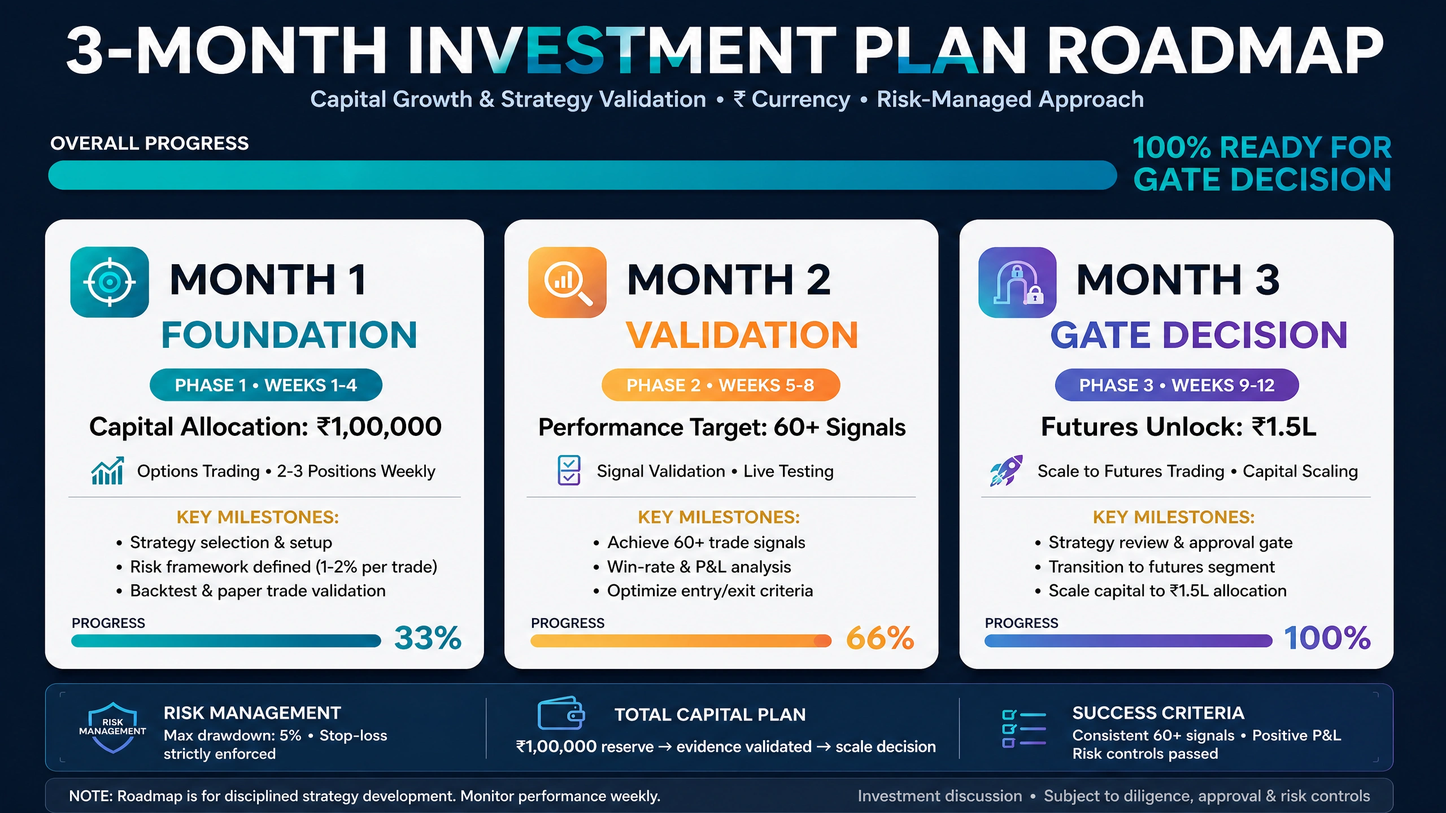
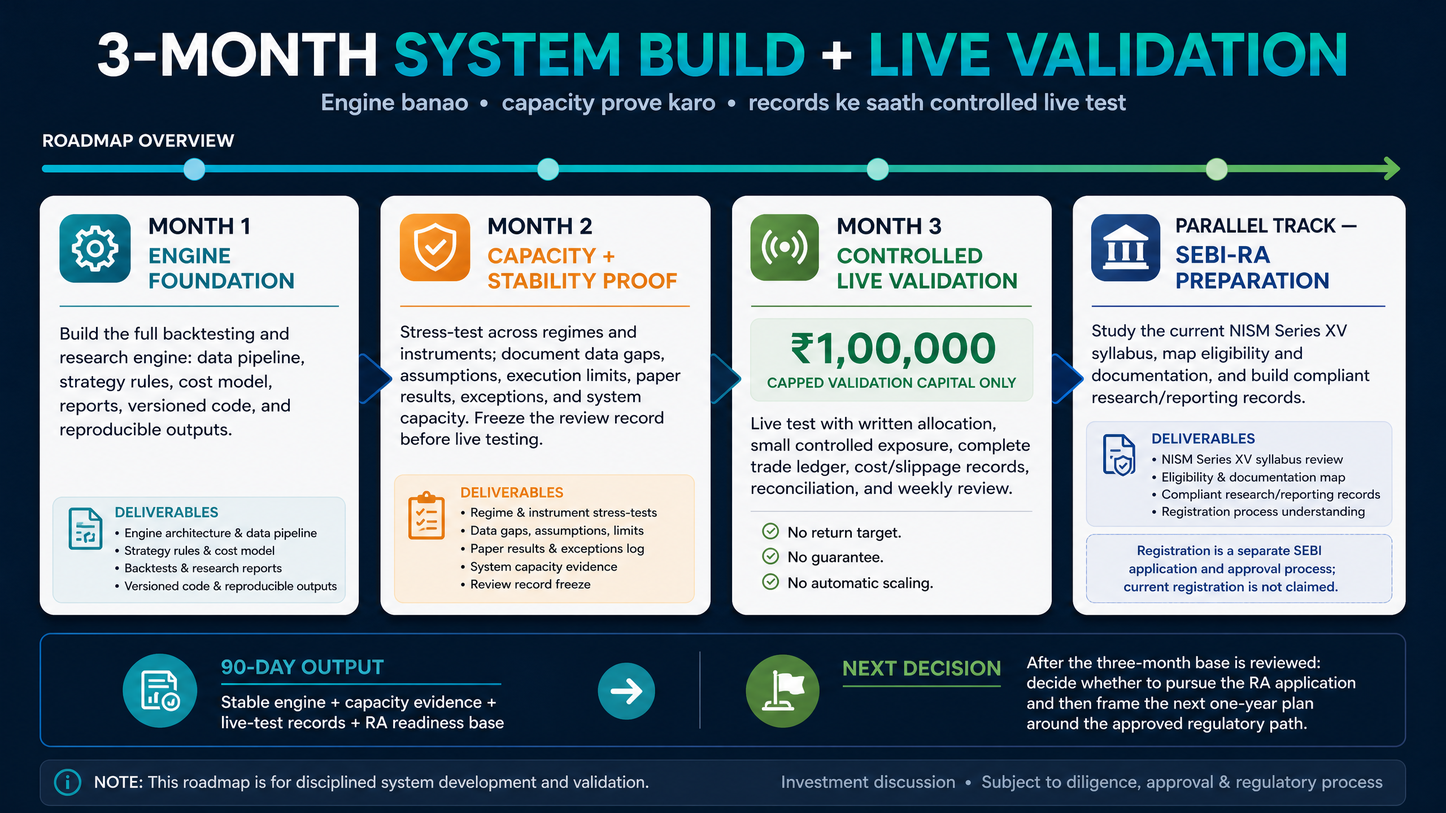
Update investment roadmap visual and reserve to one lakh

diff --git a/investor_complete.html b/investor_complete.html
@@ -348,15 +348,15 @@
         <p class="text-sm text-slate-600">Personal expenses ke liye separate buffer. Yeh trading, recovery ya escalation money nahi hai.</p>
       </div>
       <div class="bg-emerald-50 border border-emerald-200 rounded-2xl p-6 section-card">
-        <p class="text-xs text-emerald-700 font-semibold uppercase tracking-widest mb-2">Phase 3 · Conditional ring</p>
+        <p class="text-xs text-emerald-700 font-semibold uppercase tracking-widest mb-2">Phase 3 · Controlled live validation</p>
         <h3 class="text-xl font-bold text-slate-900 mb-2">₹1,00,000</h3>
-        <p class="text-sm text-slate-600">Only after evidence gates. Controlled validation space—not a return target and not a scale-up commitment.</p>
+        <p class="text-sm text-slate-600">Only after the engine and evidence base are reviewed. Capped live-test capital—not a return target or scale-up commitment.</p>
       </div>
     </div>
 
     <!-- Month-by-Month Plan -->
     <div class="bg-white border border-slate-200 rounded-2xl p-6 mb-10 overflow-x-auto section-card">
-      <h3 class="text-lg font-bold text-slate-900 mb-4">🗓 Month-by-Month Plan</h3>
+      <h3 class="text-lg font-bold text-slate-900 mb-4">🗓 Three-Month System Build + Live Validation</h3>
       <table class="w-full text-sm">
         <thead>
           <tr class="border-b-2 border-slate-200">
@@ -370,23 +370,23 @@
         <tbody>
           <tr class="border-b border-slate-100">
             <td class="font-bold text-slate-900">1 · Setup</td>
-            <td class="text-blue-600 font-semibold">Tools + runway</td>
-            <td>Laptop, phone, daily evidence ledger aur ₹20k personal buffer separately set.</td>
-            <td>No validation capital deployed.</td>
+            <td class="text-blue-600 font-semibold">Engine foundation</td>
+            <td>Full backtesting/research engine: data pipeline, strategy rules, cost model, reports, versioned code aur reproducible outputs.</td>
+            <td>No live-test capital deployed.</td>
             <td><span class="px-2 py-0.5 bg-blue-100 text-blue-700 rounded text-xs font-bold">Ready / Not ready</span></td>
           </tr>
           <tr class="border-b border-slate-100">
             <td class="font-bold text-slate-900">2 · Paper evidence</td>
-            <td class="text-amber-600 font-semibold">System discipline</td>
-            <td>60 paper signals, journal, fees/cost review, rule-break log aur 29/30 Aug gates where applicable.</td>
-            <td>No automatic escalation.</td>
+            <td class="text-amber-600 font-semibold">Capacity + stability proof</td>
+            <td>Regime/instrument stress-tests, data-gap and assumption log, paper results, exceptions aur capacity evidence.</td>
+            <td>Review record freeze before live testing.</td>
             <td><span class="px-2 py-0.5 bg-amber-100 text-amber-700 rounded text-xs font-bold">Continue / Pause / Reject</span></td>
           </tr>
           <tr>
             <td class="font-bold text-slate-900">3 · Controlled validation</td>
-            <td class="text-emerald-600 font-semibold">Evidence gate</td>
-            <td>Full review: paper record, costs, discipline, drawdown and unresolved assumptions.</td>
-            <td>Only then ₹1 lakh ring; ₹500 daily brake and ₹2,500 rolling-month brake.</td>
+            <td class="text-emerald-600 font-semibold">Controlled live validation</td>
+            <td>Written allocation, small controlled exposure, complete trade ledger, cost/slippage records, reconciliation aur weekly review.</td>
+            <td>Only then ₹1,00,000 capped validation capital; no return target, guarantee ya automatic scaling.</td>
             <td><span class="px-2 py-0.5 bg-emerald-100 text-emerald-700 rounded text-xs font-bold">Validate / Pause / Reject</span></td>
           </tr>
         </tbody>
@@ -395,7 +395,7 @@
 
     <!-- Evidence gates -->
     <div class="bg-white border border-slate-200 rounded-2xl p-6 mb-10 overflow-x-auto section-card">
-      <h3 class="text-lg font-bold text-slate-900 mb-4">🎯 Evidence Gates — Return Targets Nahi</h3>
+      <h3 class="text-lg font-bold text-slate-900 mb-4">🎯 90-Day Output — Engine, Records, RA Readiness</h3>
       <table class="w-full text-sm">
         <thead>
           <tr class="border-b-2 border-slate-200">
@@ -405,12 +405,12 @@
           </tr>
         </thead>
         <tbody>
-          <tr class="border-b border-slate-100"><td>Paper sample</td><td class="text-emerald-600 font-bold">60 paper signals logged</td><td class="text-slate-500">Signal count alone proof nahi; it makes review auditable.</td></tr>
-          <tr class="border-b border-slate-100"><td>Rule compliance</td><td class="text-emerald-600 font-bold">Every exception journaled</td><td class="text-slate-500">Execution aur system result ko alag dekhna zaroori hai.</td></tr>
-          <tr class="border-b border-slate-100"><td>Costs + drawdown</td><td class="text-emerald-600 font-bold">Recorded, within written brakes</td><td class="text-slate-500">Gross signal edge, costs ke baad bhi meaningful hona chahiye.</td></tr>
-          <tr class="border-b border-slate-100"><td>Open hypotheses</td><td class="text-emerald-600 font-bold">No unresolved assumption ignored</td><td class="text-slate-500">Max-hold, sizing aur data-quality questions ko hide nahi karna.</td></tr>
-          <tr class="border-b border-slate-100"><td>Daily brake</td><td class="text-emerald-600 font-bold">₹500</td><td class="text-slate-500">If Phase 3 opens, stop rule comes before any new trade.</td></tr>
-          <tr><td>Rolling-month brake</td><td class="text-emerald-600 font-bold">₹2,500</td><td class="text-slate-500">Loss recovery ya automatic scale-up allowed nahi.</td></tr>
+          <tr class="border-b border-slate-100"><td>Engine</td><td class="text-emerald-600 font-bold">Reproducible backtest + research reports</td><td class="text-slate-500">Code, data, assumptions aur output ko repeatably review karna.</td></tr>
+          <tr class="border-b border-slate-100"><td>Capacity + stability</td><td class="text-emerald-600 font-bold">Stress-tests and exception log complete</td><td class="text-slate-500">Data gaps, instrument limits aur failure conditions visible hon.</td></tr>
+          <tr class="border-b border-slate-100"><td>Live records</td><td class="text-emerald-600 font-bold">Allocation, ledger, costs, reconciliation</td><td class="text-slate-500">Live test ko auditable banana; return promise nahi.</td></tr>
+          <tr class="border-b border-slate-100"><td>RA readiness</td><td class="text-emerald-600 font-bold">NISM Series XV study + eligibility/document map</td><td class="text-slate-500">Preparation parallel hai; current SEBI registration claim nahi.</td></tr>
+          
+          <tr><td>Next decision</td><td class="text-emerald-600 font-bold">Review base, then decide RA application + one-year plan</td><td class="text-slate-500">Application separate SEBI process hai; approval assumed nahi.</td></tr>
         </tbody>
       </table>
     </div>
@@ -419,8 +419,8 @@
     <div class="img-card bg-white rounded-2xl overflow-hidden shadow-sm border border-slate-200 mb-10">
       <div class="p-4 border-b border-slate-100">
         <span class="inline-block px-3 py-1 bg-cyan-100 text-cyan-700 rounded-full text-xs font-semibold">9 / 9 · Stage 3</span>
-        <h3 class="text-lg font-bold text-slate-900 mt-2">Research Evidence Dashboard</h3>
-        <p class="text-slate-500 text-sm">Historical study, paper record, rejections aur decision gates — yahin Stage 3 mein ek jagah review hote hain</p>
+        <h3 class="text-lg font-bold text-slate-900 mt-2">3-Month System Build + Live Validation</h3>
+        <p class="text-slate-500 text-sm">Engine stability, capacity evidence, controlled live records aur parallel RA readiness — Stage 3 ka complete review</p>
       </div>
       <img src="meeting_img7.webp" alt="Research evidence dashboard" class="w-full">
     </div>
@@ -446,7 +446,7 @@
           <p class="text-xl font-bold">Validate / Pause / Reject</p>
         </div>
       </div>
-      <p class="text-center text-slate-400 text-sm mt-6 italic">"Pehle tools aur personal stability. Phir paper evidence. Capital tabhi jab gate clear ho—aur tab bhi controlled."</p>
+      <p class="text-center text-slate-400 text-sm mt-6 italic">"Pehle engine aur evidence base. Phir controlled live test. Saath mein RA readiness—application aur one-year plan review ke baad."</p>
     </div>
 
     <!-- What We Don't Say / What We Say -->
@@ -477,8 +477,8 @@
     <!-- Stage 3 Key Takeaway -->
     <div class="bg-slate-900 text-white rounded-2xl p-8 text-center">
       <p class="text-amber-400 font-semibold text-sm tracking-widest uppercase mb-3">Stage 3 Ka Sikha</p>
-      <h3 class="text-xl md:text-2xl font-bold mb-4">"3 Months = Controlled Evidence Window"</h3>
-      <p class="text-slate-300 max-w-xl mx-auto">Goal pressure mein return banana nahi hai. Goal hai system, execution, costs aur risk limits ko evidence ke saath check karke validate, pause ya reject ka honest decision lena.</p>
+      <h3 class="text-xl md:text-2xl font-bold mb-4">"3 Months = Engine + Records + Readiness Base"</h3>
+      <p class="text-slate-300 max-w-xl mx-auto">Goal fixed return ya trading target nahi hai. Goal hai full engine ko stable banana, capacity prove karna, ₹1 lakh se controlled live test ke records banana, aur parallel SEBI-RA preparation ka base khada karna. Uske baad hi application aur next one-year plan par decision.</p>
     </div>
 
   </div>
